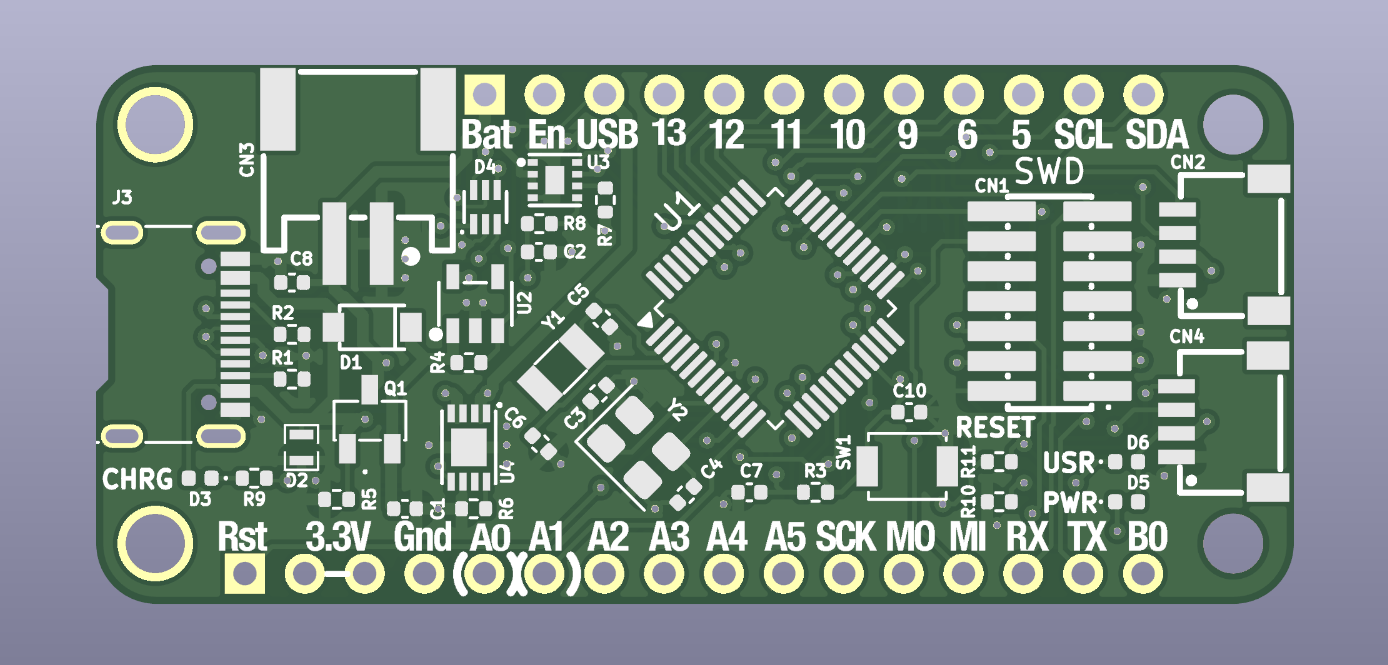
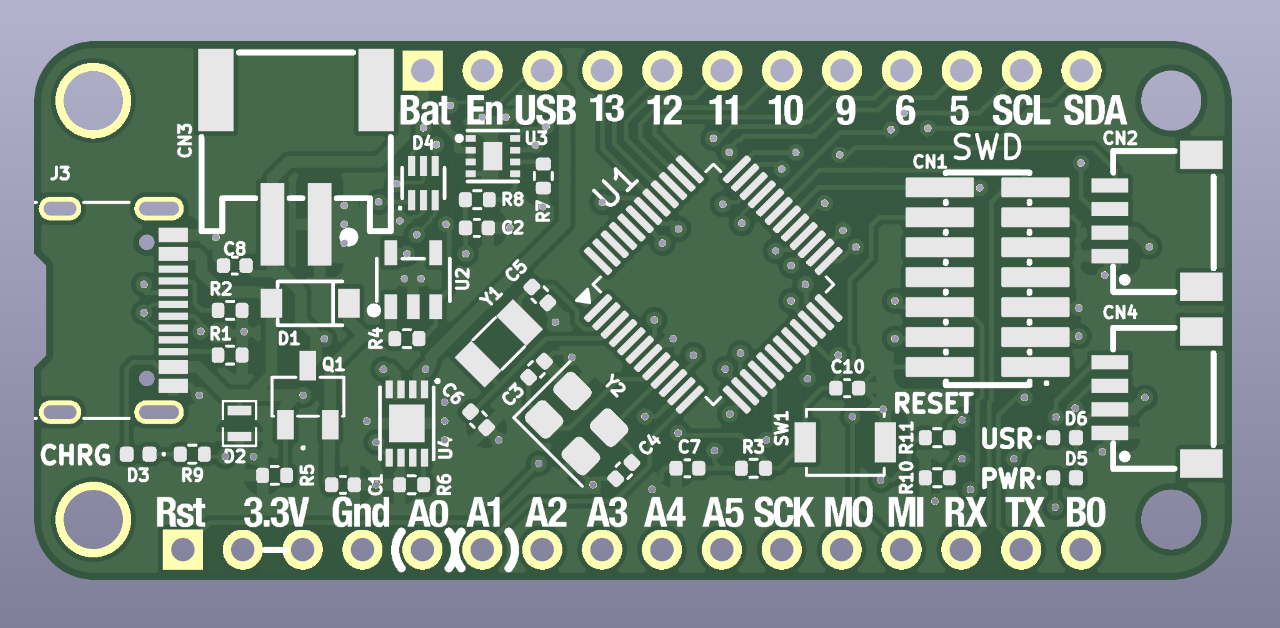
Updated documentation

diff --git a/README.md b/README.md
@@ -17,6 +17,8 @@ A STM32G0B1-based development board meant for prop making, inspired by Adafruits
 
 ![Image of the board layout in PcbNew](img/pcb_layout.png "Board Layout")
 
-![Image of the board in the 3d viewer without components](img/pcb_3d_1.png "Board 3D View")
+![Image of the board bottom side in the 3d viewer without components](img/pcb_3d_3.png "Board 3D View \(bottom\)")
 
-![Image of the board in the 3d viewer with components](img/pcb_3d_2.png "Board 3D View \(assembled\)")
+![Image of the board top side in the 3d viewer without components](img/pcb_3d_1.png "Board 3D View \(top\)")
+
+![Image of the board top the 3d viewer with components](img/pcb_3d_2.png "Board 3D View \(top, assembled\)")
